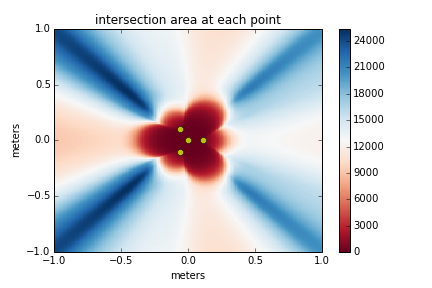
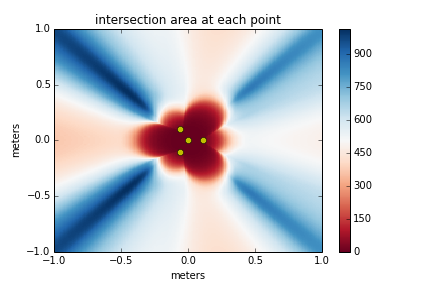
paper update

diff --git a/reports/paper/prior.tex b/reports/paper/prior.tex
@@ -51,14 +51,16 @@ where $X_1(\omega)$ and $X_2(\omega)$ are Fourier Transforms of $x_1(t)$ and $x_
 \item[GCC\_PHAT\_SQRT] $W(\omega) = \frac{1}{\left|X_1(\omega)X_2^*(\omega)\right|^{0.5}}$. This is somewhere between GCC and GCC\_PHAT. Part of magnitude information is included in arrival time difference estimation.
 \end{description}
 
-To see the reasoning behind different prefitering approaches, we can seperate the magnitude and phase part of $X_1(\omega)$ and $X_2(\omega)$ in Equation~\ref{eq:gcc2}:
+To see the reasoning behind different prefitering approaches, we can seperate the magnitude part from the phase part of $X_1(\omega)$ and $X_2(\omega)$ in Equation~\ref{eq:gcc2}:
 \begin{eqnarray}
 \label{eqn:phat1}
 R_{x_1x_2}(\tau) &=& \int_{-\infty}^\infty W(\omega) |X_1(\omega)||X_2(\omega)| e^{j(\omega\tau - (\angle{X_2(\omega)} - \angle{X_1(\omega)}) } d\omega\\
 &=& \int_{-\infty}^\infty W(w)|X_1(\omega)| |X_2(\omega)| \cos(\omega\tau - (\angle X_2(\omega) - \angle X_1(\omega))) d\omega
 \end{eqnarray}
-We look at the real part of equation~\ref{eqn:phat1} only since both $x_1(t)$ and $x_2(t)$ are real valued signals. When $\dot \tau$ is the true arrive time difference between $x_1(t)$ and $x_2(t)$, $\omega \dot \tau - (\angle X_2(\omega) - \angle X_1(\omega)) = 0$, and $\cos(\omega \dot \tau - (\angle X_2(\omega) - \angle X_1(\omega))) = 1$. Therefore, $\cos(\omega\tau - (\angle X_2(\omega) - \angle X_1(\omega)))$ can be seen as a measure of the phase error, and $W(w)|X_1(\omega)||X_2(\omega)|$ describes how the error should be weighted at each frequency. The TDOA estimator essentially sums the weighted phase error at each frequncy. 
+We can look at the real part of equation~\ref{eqn:phat1} only since both $x_1(t)$ and $x_2(t)$ are real valued signals. When $\dot \tau$ is the true arrive time difference between $x_1(t)$ and $x_2(t)$, $\omega \dot \tau - (\angle X_2(\omega) - \angle X_1(\omega)) = 0$, and $\cos(\omega \dot \tau - (\angle X_2(\omega) - \angle X_1(\omega))) = 1$. Therefore, $\cos(\omega\tau - (\angle X_2(\omega) - \angle X_1(\omega)))$ can be seen as a measure of the phase error, and $W(w)|X_1(\omega)||X_2(\omega)|$ describes how the error should be weighted at each frequency. The TDOA estimator essentially sums the weighted phase error at each frequncy. 
 
-Without any prefitering (i.e $W(\omega)=1$), the estimator weighs the phase error at each frequency by the magnitude of the signal at that frequency. In this weighting scheme, phase error at frequencies with higher magnitudes are penalized more compared to frequencies with a lower magnitude. This weighting is approporiate if there is only one source present, since freqeuncies with higher intensities have higher Signal to Noise Ratio (SNR). It makes sense to place higher weights at frequencies with higher SNR. 
+Without any prefitering (i.e $W(\omega)=1$), the estimator weighs the phase error at each frequency by the magnitude of the signal at that frequency. In this weighting scheme, phase error at frequencies with higher magnitudes are penalized more compared to frequencies with a lower magnitude. This weighting is approporiate if there is only one source present, since freqeuncies with higher magnitude have higher Signal to Noise Ratio (SNR). It makes sense to place higher weights at frequencies with higher SNR. 
 
-However, with multiple sources, the source with the highest volume will dominate the phase error estimation, but there is no particular reson to assign higher weights to signals with higher volume. All sources should contribute equally in phase error estimation. In GCC\_PHAT,  $W(\omega)$ is set to $\frac{1}{|X_1(\omega)||X_2(\omega)|}$. In effect it weighs phase error uniformly across freqiency. 
+However, with multiple sources, the source with the highest volume will dominate the phase error estimation, but there is no particular reson to assign a higher weight to the signal with the highest volume. All sources should contribute equally in phase error estimation. In GCC\_PHAT,  $W(\omega)$ is set to $\frac{1}{|X_1(\omega)||X_2(\omega)|}$. In effect it weighs phase error uniformly across freqiency. Since phase error at all frequencies are weighted equally, this technique will suffer from error accumulation if the source has a lot of low power regions in the frequency domain.
+
+In GCC\_PHAT\_SQRT, $W(\omega)$ is set to $\frac{1}{(|X_1(\omega)||X_2(\omega)|)^{0.5}}$. Phase error weighting at each frequency still depends on the signal strength at that frequency, but the dependency is much weaker than that in unfiltered GCC. On the other hand, this weighting scheme doesn't go to the other extreme of completely ignoring signal strength information as does in GCC\_PHAT. This approach represents a balance between unfilterred GCC and GCC\_PHAT.

diff --git a/reports/paper/simulation.tex b/reports/paper/simulation.tex
@@ -1,5 +1,5 @@
 \chapter{Array Architecture}
-As was mentioned in the previous section, points with the same TDOA to two fixed locations form a hyperbola on a 2D plane. However, in practical systems we can only measure TDOA up to a precision. Therefore we look at all points with difference of distance close to some target value within measurement error $\epsilon$. This $\epsilon$ represents accuracy on the measurement of difference of distances, and in practice it is related to sampling rate and estimation techniques. In this section we evaluate the impact of difference of distance estimation on localization accuracy.
+As was mentioned in the previous chapter, points with the same TDOA to two fixed locations form a hyperbola on a 2D plane. However, in practical systems we can only measure TDOA up to a precision. Therefore we look at all points with difference of distance close to some target value within measurement error $\epsilon$. This $\epsilon$ represents accuracy on the measurement of difference of distances, and in practice it is related to sampling rate and estimation techniques. In this chapter we evaluate the impact of difference of distance estimation on localization accuracy.
 
 \begin{figure}[]
   \centering
@@ -23,9 +23,9 @@ To see how precision affects localization accuracy, we simulated two microphones
 \[
 2a = P M_1 - P M_2 
 \]
-then fig~\ref{fig:sim_2_5} shows the region $R$ where all points have difference of distance to two microphones close to $2a$ within $1$ cm:
+then the TDOA is $2a/340$ seconds. Assuming a sampling rate of $34$ KHz, fig~\ref{fig:sim_2_5} shows the region $R$ where all points have TDOA close to $2a/340$ s within one sample difference:
 \[
-R=\{\hat P: |(\hat P M_1 - \hat P M_2) - 2a|< 1 \mbox{ cm}\}
+R=\{\hat P: |(\hat P M_1 - \hat P M_2) - 2a|< \frac{1}{2} \mbox{ samples}\}
 \]
 Intuitively, points in $R$ have difference of distance to two microphones very similar to each other. Looking at fig~\ref{fig:sim_2_5}, we can still see that $R$ has the shape of a hyperbola, but with an uncertainty region around it. The thickness of the uncertainty region is not uniform around the hyperbola, the farther away the point is, the larger the uncertainty region becomes. This indicates for the same delta distance movement it will generate smaller difference of distance change when the source is farther away from the array. The size of the uncertainty region is also angle dependent: points closer to the line connecting microphones have larger region compared to points close to the line bisecting microphones. 
 
@@ -132,7 +132,7 @@ To see how sound source distance affects localization accuracy, the same simulat
     \caption{Two $3$ microphone arrays are placed $1$ meter apart. The average error is $2.60$ cm}
     \label{fig:sim_hm_2_array}
   \end{subfigure}
-  \caption{Error heatmap for different array configurations}
+  \caption{Error heatmap for different array configurations. The heatmap scale is the intersection area measured in $cm^2$}.
   \label{fig:sim_hm}
 \end{figure*}
 
